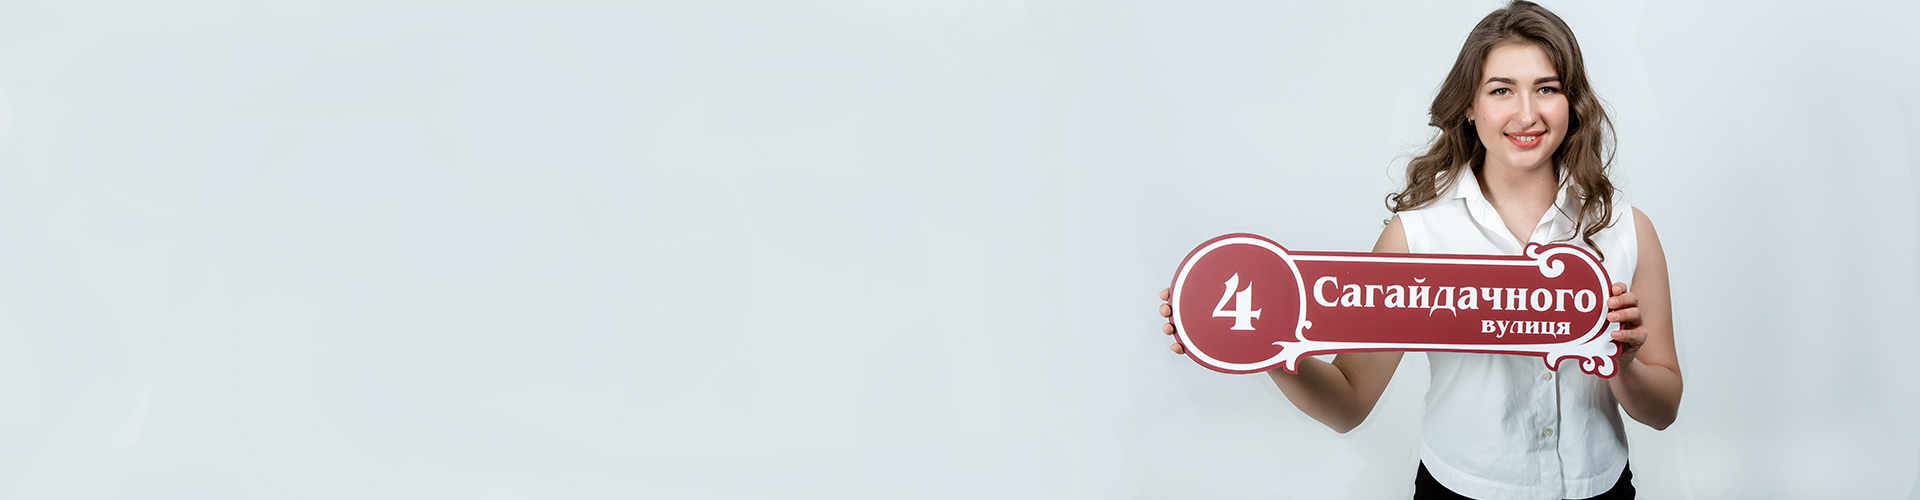
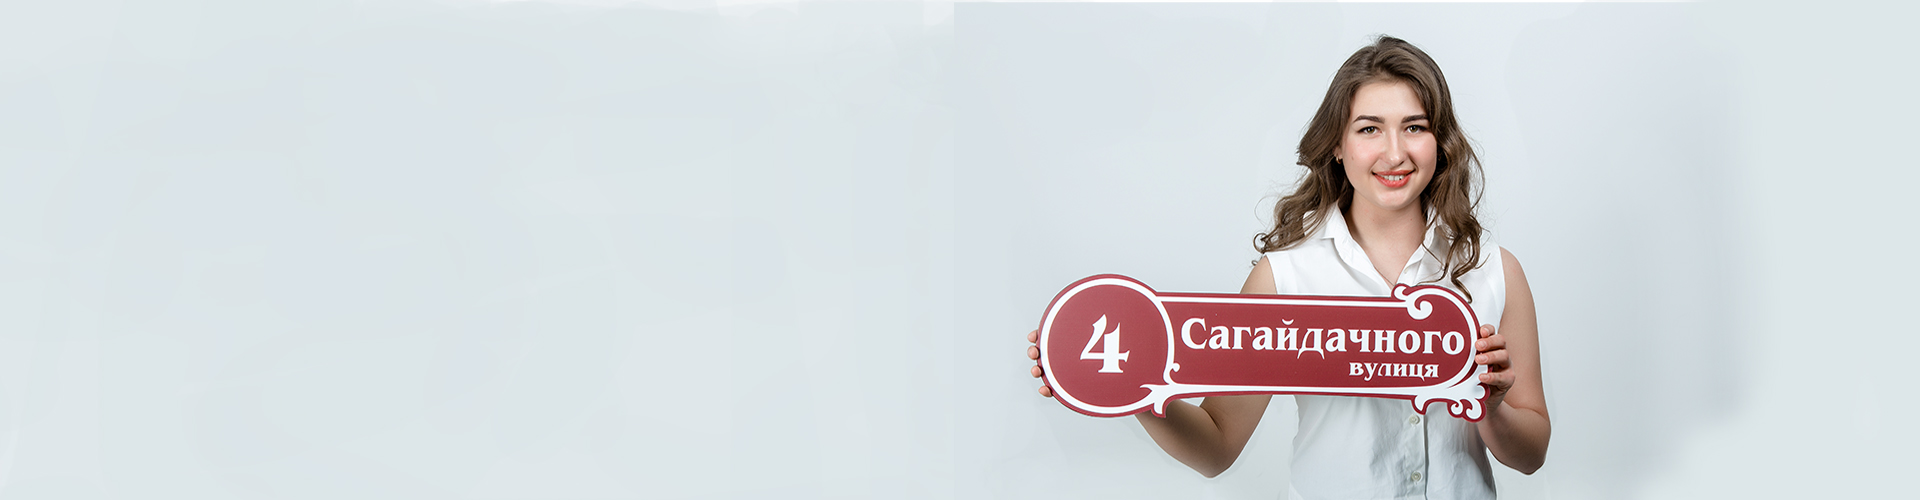
Maybe finally changes

diff --git a/testfront/project038/ru/index.html b/testfront/project038/ru/index.html
@@ -71,7 +71,8 @@
 
     <div class="container-fluid" id="main-banner">
         <div class="row">
-            <div class="col-lg-6 pt-md-5 mt-3 text-lg-right text-center">
+             <div class="col-lg-12 col-1"></div>
+             <div class="col-lg-6 col-10 pt-md-5 mt-3 text-lg-right text-center">
                 <h3 class="main-banner-text pb-5">
                     <span class="text-primary">Закажите адресную табличку для дома</span><br> со сроком службы до 15 лет и<br> получите её через 5 дней с момента заказа!<br>
                 </h3>
@@ -303,7 +304,7 @@
                                     <div class="col">
                                         <div class="form-check">
                                             <input class="form-check-input custom-checkbox" type="checkbox" onclick="getTotalPrice(), laminationCheckBox()" name="options" id="lamination" style="background-color: #007bff;">
-                                            <label for="lamination"><h6 class="mt-2 ml-3" data-toggle="tooltip" data-placement="bottom" title="Мы нанесем на Вашу табличку специальное покрытие, которое защитит изображение от вредного воздействия ультрафиолета и других неблагоприятных внешних факторов, а также от механических повреждений. Это значительно продлит срок службы Вашей таблички до 15 лет.">Ламинирование, защита от инфракрасных лучей <span id="lamination-price">(+50 грн)</span> <i class="far fa-question-circle text-primary"></i></h6></label>
+                                            <label for="lamination"><h6 class="mt-2 ml-3" data-toggle="tooltip" data-placement="bottom" title="Мы нанесем на Вашу табличку специальное покрытие, которое защитит изображение от вредного воздействия ультрафиолета и других неблагоприятных внешних факторов, а также от механических повреждений. Это значительно продлит срок службы Вашей таблички до 15 лет.">Ламинирование, защита от солнечных лучей <span id="lamination-price">(+50 грн)</span> <i class="far fa-question-circle text-primary"></i></h6></label>
                                         </div>
                                         <div class="form-check">
                                             <input class="form-check-input custom-checkbox" type="checkbox" onclick="getTotalPrice(), holesCheckBox()" name="options" id="holes" style="background-color: #007bff;">
@@ -318,7 +319,7 @@
                                 <div class="horizontal-line"></div>
                                 <div class="row text-center">
                                     <div class="col mt-3">
-                                        <h5 data-toggle="tooltip" data-placement="bottom" title="Текст про кріплення">Комплекты креплений <span>(+30 грн)</span> <i class="far fa-question-circle text-primary"></i></h5>
+                                        <h5 data-toggle="tooltip" data-placement="bottom" title="Різні типи кріплень для різних покриттів">Комплекты креплений <span>(+30 грн)</span> <i class="far fa-question-circle text-primary"></i></h5>
                                     </div>
                                 </div>
                                 <div class="row text-center">

diff --git a/testfront/project038/index.html b/testfront/project038/index.html
@@ -71,7 +71,8 @@
 
     <div class="container-fluid" id="main-banner">
         <div class="row">
-            <div class="col-lg-6 pt-md-5 mt-3 text-lg-right text-center">
+            <div class="col-lg-12 col-1"></div>
+            <div class="col-lg-6 col-10 pt-md-5 mt-3 text-lg-right text-center">
                 <h3 class="main-banner-text pb-5">
                     <span class="text-primary">Замовте адресну табличку для дому</span><br> з терміном служби до 15 років та<br> отримайте її через 5 днів з моменту замовлення!<br>
                 </h3>
@@ -303,7 +304,7 @@
                                     <div class="col">
                                         <div class="form-check">
                                             <input class="form-check-input custom-checkbox" type="checkbox" onclick="getTotalPrice(), laminationCheckBox()" name="options" id="lamination" style="background-color: #007bff;">
-                                            <label for="lamination"><h6 class="mt-2 ml-3" data-toggle="tooltip" data-placement="bottom" title="Ми нанесемо на Вашу табличку спеціальне покриття, яке захистить зображення від шкідливого впливу ультрафіолету та інших несприятливих зовнішніх факторів, а також від механічних пошкоджень. Це значно подовжить термін служби Вашої таблички до 15 років.">Ламінування, захист від інфрачервоних променів <span id="lamination-price">(+50 грн)</span> <i class="far fa-question-circle text-primary"></i></h6></label>
+                                            <label for="lamination"><h6 class="mt-2 ml-3" data-toggle="tooltip" data-placement="bottom" title="Ми нанесемо на Вашу табличку спеціальне покриття, яке захистить зображення від шкідливого впливу ультрафіолету та інших несприятливих зовнішніх факторів, а також від механічних пошкоджень. Це значно подовжить термін служби Вашої таблички до 15 років.">Ламінування, захист від сонячних променів <span id="lamination-price">(+50 грн)</span> <i class="far fa-question-circle text-primary"></i></h6></label>
                                         </div>
                                         <div class="form-check">
                                             <input class="form-check-input custom-checkbox" type="checkbox" onclick="getTotalPrice(), holesCheckBox()" name="options" id="holes" style="background-color: #007bff;">
@@ -318,7 +319,7 @@
                                 <div class="horizontal-line"></div>
                                 <div class="row text-center">
                                     <div class="col mt-3">
-                                        <h5 data-toggle="tooltip" data-placement="bottom" title="Текст про кріплення">Комплекти кріплень <span>(+30 грн)</span> <i class="far fa-question-circle text-primary"></i></h5>
+                                        <h5 data-toggle="tooltip" data-placement="bottom" title="Разные типы креплений для разных покрытий">Комплекти кріплень <span>(+30 грн)</span> <i class="far fa-question-circle text-primary"></i></h5>
                                     </div>
                                 </div>
                                 <div class="row text-center">

diff --git a/testfront/project038/ru/faq.html b/testfront/project038/ru/faq.html
@@ -96,7 +96,7 @@
 
                     <div id="collapseOne" class="collapse show" aria-labelledby="headingOne" data-parent="#accordion">
                         <div class="card-body">
-                            Все применяемые материалы разработаны для производства наружной рекламы, то есть не боятся ни солнца, ни дождя, ни мороза. Заявленный производителем минимальный срок эксплуатации при среднеевропейском нормальном климате — 3 года. По нашему опыту, таблички, сделанные по данной технологии, при добавлении ламинирующего слоя срок будет до 15 лет.
+                            Все материалы разработаны для производства наружной рекламы, то есть не боятся ни солнца, ни дождя, ни мороза. Заявленный производителем минимальный срок эксплуатации при среднеевропейском нормальном климате — 3 года. По нашему опыту, таблички, сделанные по данной технологии, при добавлении ламинирующего слоя срок будет до 15 лет.
                         </div>
                     </div>
                 </div>

diff --git a/testfront/project038/faq.html b/testfront/project038/faq.html
@@ -96,7 +96,7 @@
 
                     <div id="collapseOne" class="collapse show" aria-labelledby="headingOne" data-parent="#accordion">
                         <div class="card-body">
-                            Всі вживані матеріали розроблені для виробництва зовнішньої реклами, тобто не бояться ні сонця, ні дощу, ні морозу. Заявлений виробником мінімальний термін експлуатації при середньоєвропейському нормальному кліматі - 3 роки. З нашого досвіду, у таблички, зробленою за даною технологією, при додаванні ламінуючого шару, термін буде до 15 років.
+                            Всі матеріали розроблені для виробництва зовнішньої реклами, тобто не бояться ні сонця, ні дощу, ні морозу. Заявлений виробником мінімальний термін експлуатації при середньоєвропейському нормальному кліматі - 3 роки. З нашого досвіду, у таблички, зробленою за даною технологією, при додаванні ламінуючого шару, термін буде до 15 років.
                         </div>
                     </div>
                 </div>

diff --git a/testfront/project038/ru/about.html b/testfront/project038/ru/about.html
@@ -71,7 +71,7 @@
     <div class="container-fluid px-0">
         <div class="row m-0">
             <div class="col  p-0">
-                <img class="img-fluid" src="../img/bannerDelivery.png">
+                <img class="img-fluid" src="../img/bannerDelivery.jpg">
             </div>
         </div>
     </div>

diff --git a/testfront/project038/about.html b/testfront/project038/about.html
@@ -71,7 +71,7 @@
     <div class="container-fluid px-0">
         <div class="row m-0">
             <div class="col  p-0">
-                <img class="img-fluid" src="img/bannerDelivery.png">
+                <img class="img-fluid" src="img/bannerDelivery.jpg">
             </div>
         </div>
     </div>
